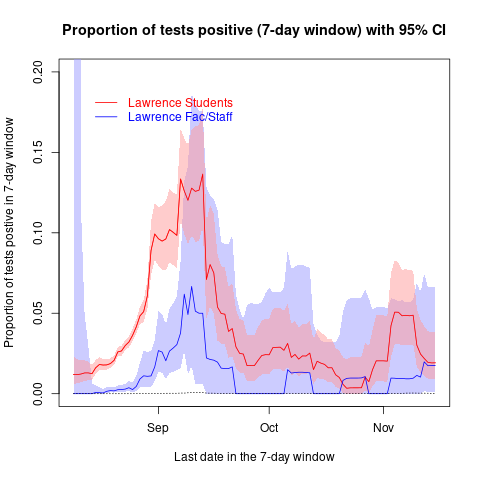
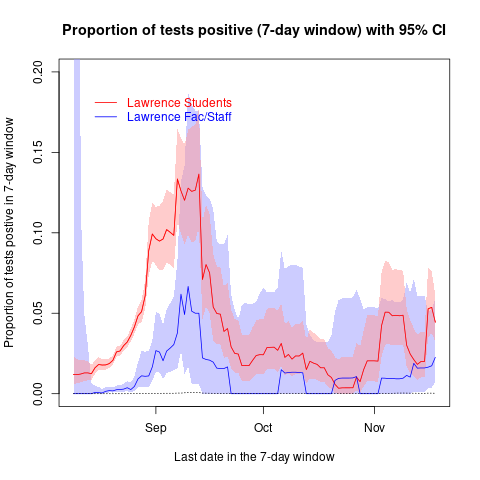
to Nov 18

diff --git a/README.md b/README.md
@@ -45,6 +45,7 @@ Currently the reports are for the periods:
    * [Nov 02 to Nov 08](https://protect.ku.edu/sites/protect/files/documents/Dashboard/COVID-19_Dashboard_Nov2toNov8.pdf) 
    * [Nov 05 to Nov 11](https://protect.ku.edu/sites/protect/files/documents/Dashboard/COVID-19_Dashboard_Nov5toNov11.pdf) 
    * [Nov 09 to Nov 15](https://protect.ku.edu/sites/protect/files/documents/Dashboard/COVID-19_Dashboard_Nov9toNov15.pdf) 
+   * [Nov 12 to Nov 18](https://protect.ku.edu/sites/protect/files/documents/Dashboard/COVID-19_Dashboard_Nov12toNov18.pdf) 
 
 None of the reports trace the test-positivity percentage over time, which I was interested in.
 For a time-series of test-positivity rates to be easily interpreted as a proxy of the campus-wide prevalence of SARS-CoV-2 infections, it is important to either have detailed knowledge of the biases associated with targeted testing, or to focus on the entry tests and "randomized prevalence testing."
